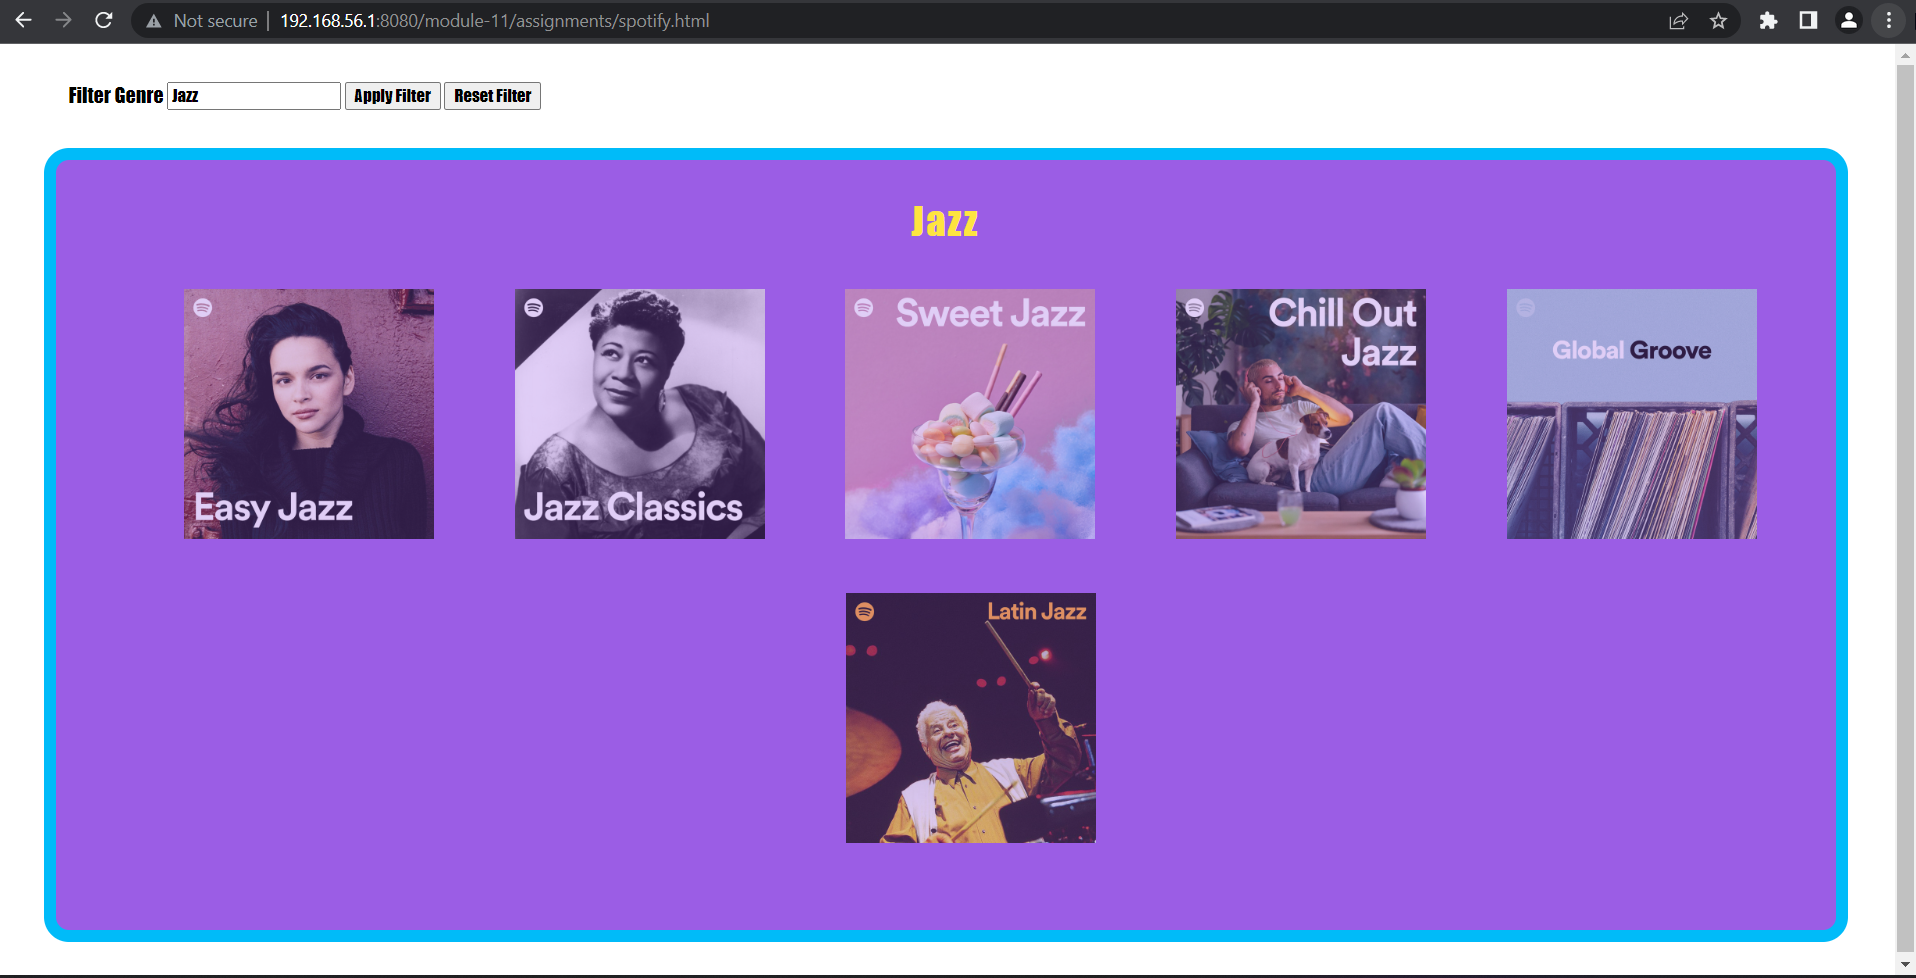
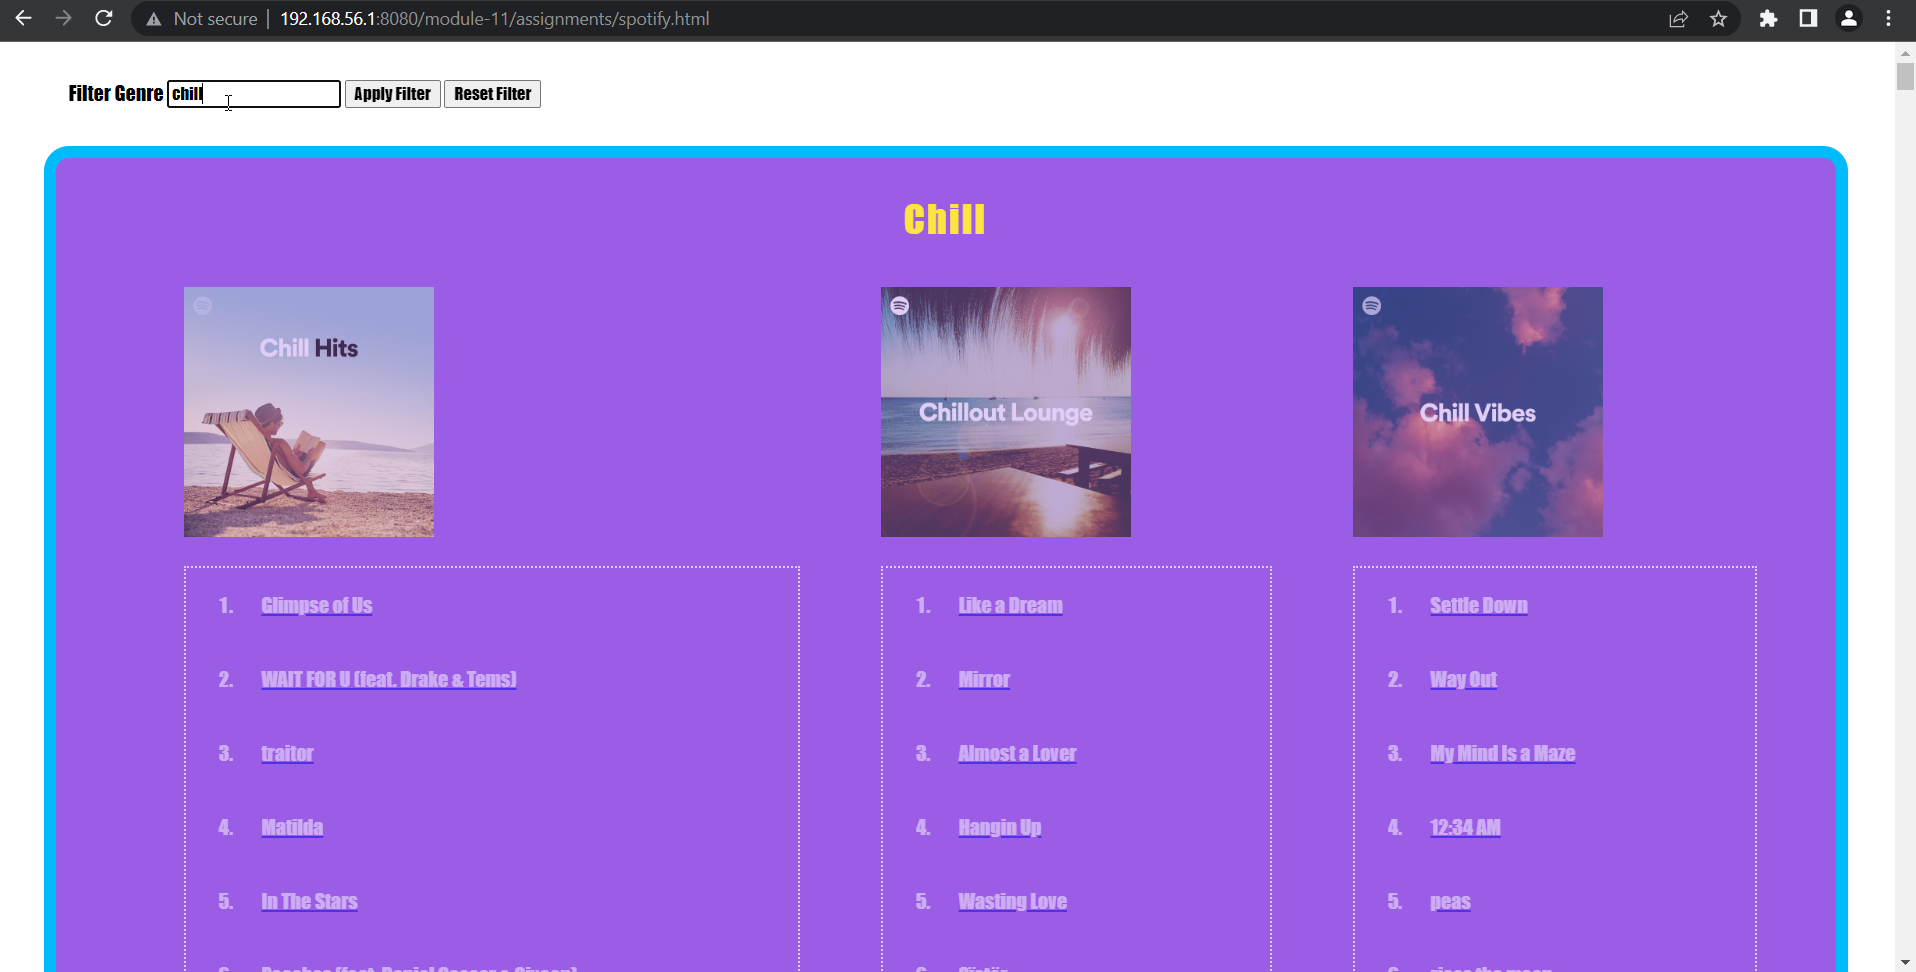
activity second commit

diff --git a/module-11/assignments/spotify.js b/module-11/assignments/spotify.js
@@ -80,6 +80,7 @@ const loadGenres = async() => {
 
 const renderGenres = (term) => {
     let source = _data;
+    // console.log(_data);
     if(Boolean(term)){
         const searchTerm = term.toLowerCase();
 
@@ -88,16 +89,24 @@ const renderGenres = (term) => {
     
     const html = source.reduce((acc, {name,playlists}) => {
         const playlistsHTML = playlists.reduce(
-            (playListAcc, {name, external_urls: { spotify },images: [icon]}) => 
-            playListAcc +
-            `
-            <li>
-                <a href="${spotify}" alt="${name} target ="_blank">
-                    <img src = "${icon.url}" width="200" height="200""/>
-                </a>
-            </li>`,    
-            ``
-        );
+            (playListAcc, {name, external_urls: { spotify },images: [icon],tracks}) =>
+            {
+            const trackHTML = tracks.map(tr => {
+                if(tr && tr.track){
+                    return `<li>
+                    ${tr.track.name}
+                    </li>`
+                }
+            }).join(``);
+
+            return (playListAcc +
+                        `<li>
+                            <a href="${spotify}" alt="${name} target ="_blank">
+                                <img src = "${icon.url}" width="200" height="200""/>
+                                <ol id="tracks">${trackHTML}</ol>
+                            </a>
+                        </li>`);
+                    }, ``);
             return (
                 acc + 
             `
@@ -134,72 +143,3 @@ const onSubmit = event =>{
 const onReset = () =>{
     renderGenres();
 }
-
-
-
-
-
-
-
-
-
-
-
-
-
-
-
-// const loadGenres_old = async() => {
-//     const token = await getToken();
-//     const genres = await getGenres(token);
-    
-
-//     const list = document.getElementById(`genres`);
-
-//     genres.map(async({name,id}) => {
-
-//         const playlists = await getPlaylistsByGenre(token,id);
-
-//         const playlistsList = await(await Promise.all(playlists.map(async ({name, id,external_urls: { spotify },images: [icon]}) => {
-
-//             const tracks = await getTracks(token,id);
-//             const tracksList = tracks.map(({track}) =>{
-//                 const artistArray = track.artists.map(artist => artist.name).join(`,`);
-//                 return track.name + '-' + artistArray;
-//             })
-
-//             console.log(tracksList);
-//             const track = tracksList.map((data) =>{
-//                 return `<li>${data}</li>`
-//             }).join(``)
-
-//             return `
-//             <li key='id'>
-//                 <a href="${spotify}" target ="_blank">
-//                     <img src = "${icon.url}" width="200" height="200" alt="${name}"/>
-//                 </a>
-                
-//                 <ol>
-//                 Track Name (Artists)
-//                     ${track}
-//                 </ol>
-//             </li>
-//             `
-            
-//         }))).join(``);
-
-//         // console.log(playlistsList);
-//         const html = `
-//             <article>
-//                 <div id="genreTitle">${name}</div>
-//                 <div class="playlists">
-//                     <ul>
-//                     ${playlistsList}
-//                     </ul>
-//                 </div>
-//             </article>
-//         `;
-//         list.insertAdjacentHTML(`beforebegin`,html);
-//     });
-   
-// }

diff --git a/module-11/assignments/spotify.css b/module-11/assignments/spotify.css
@@ -49,3 +49,11 @@ ol{
     margin-left: 50px;
     margin-top: 30px;
 }
+
+#tracks{
+    color: #fff;
+}
+
+img{
+    margin-bottom: 20px;
+}
